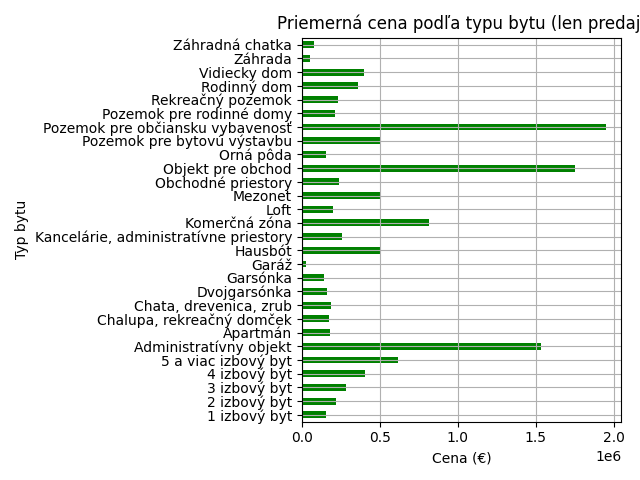
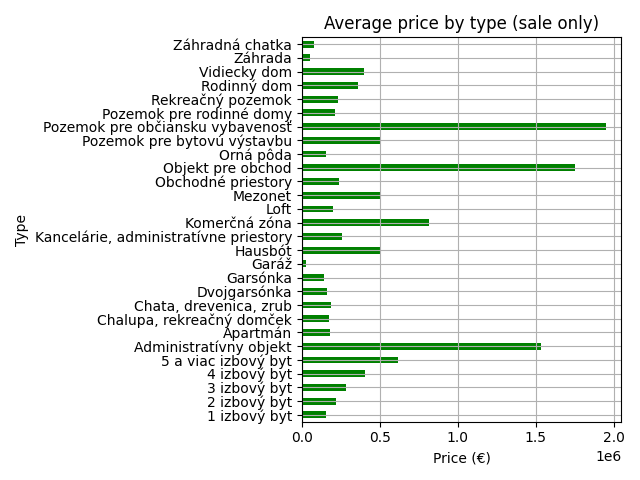
.

diff --git a/analysis/Analysis.py b/analysis/Analysis.py
@@ -36,8 +36,8 @@ class Analysis:
 
         avg_price_by_type.plot(kind='barh', color='green')
         pl.title('Average price by type (sale only)')
-        pl.xlabel('Cena (€)')
-        pl.ylabel('Typ bytu')
+        pl.xlabel('Price (€)')
+        pl.ylabel('Type')
         pl.grid(True)
         pl.tight_layout()
         pl.savefig("graph_avg_price_by_type.png")
